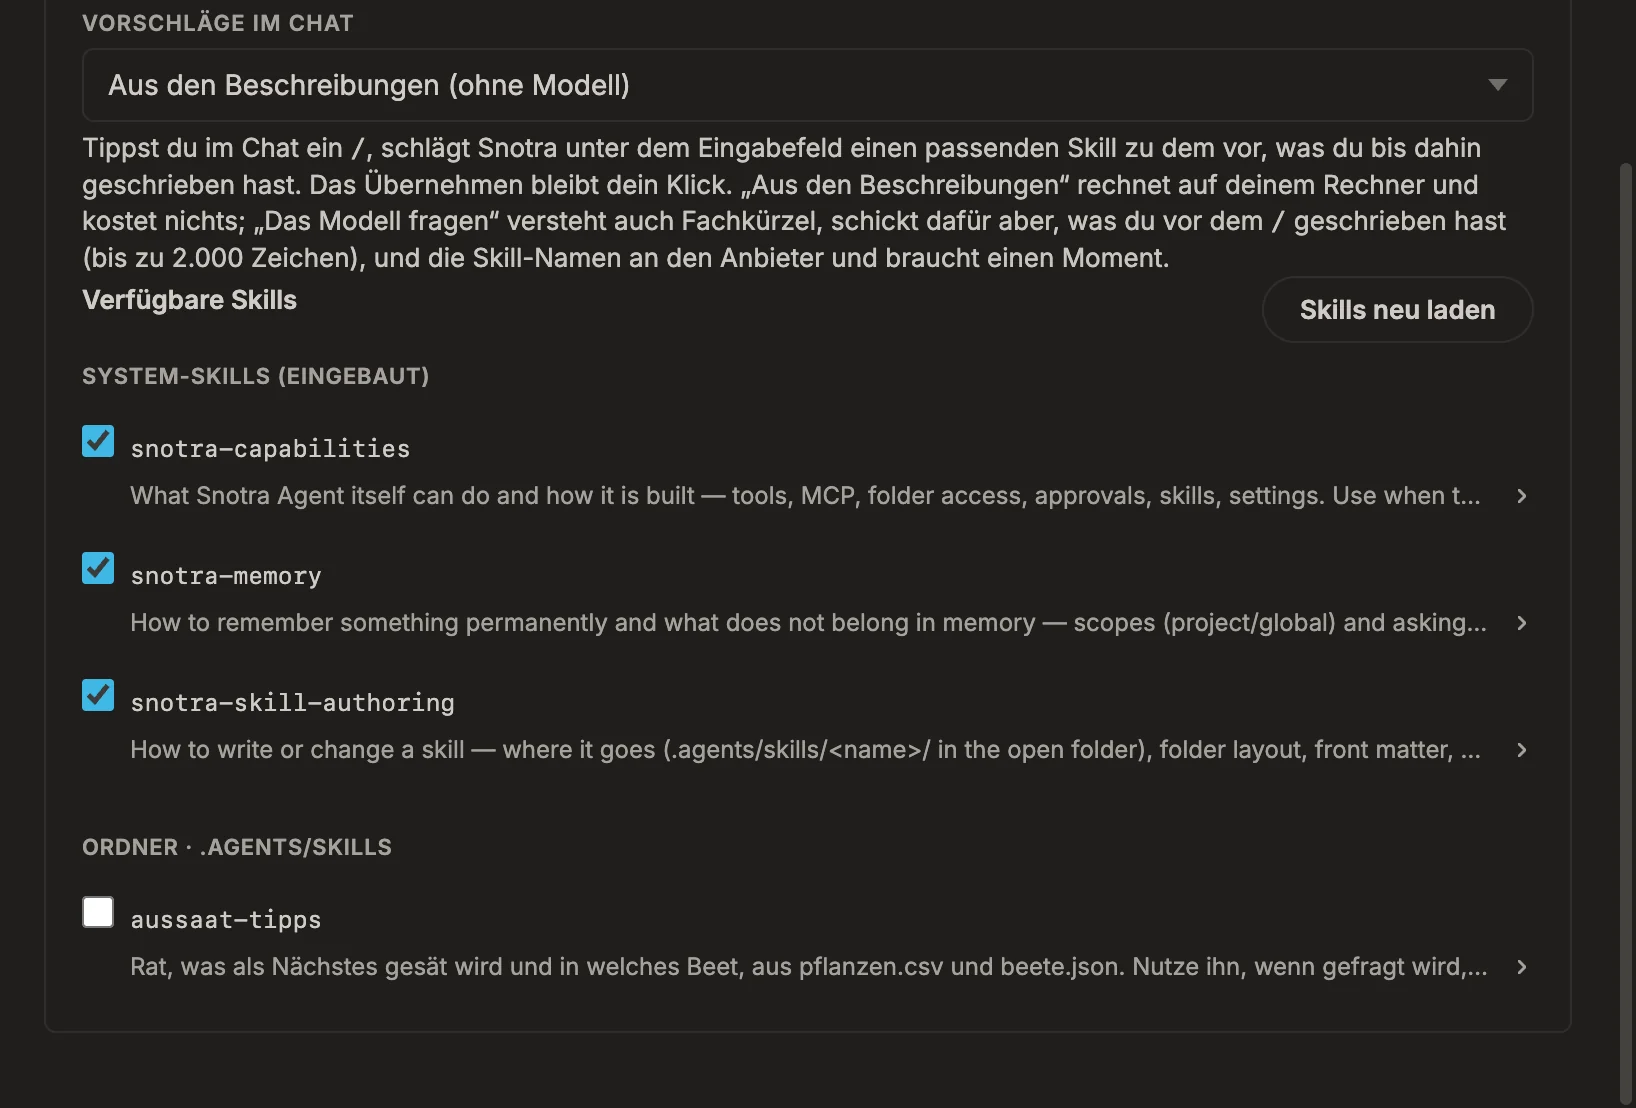
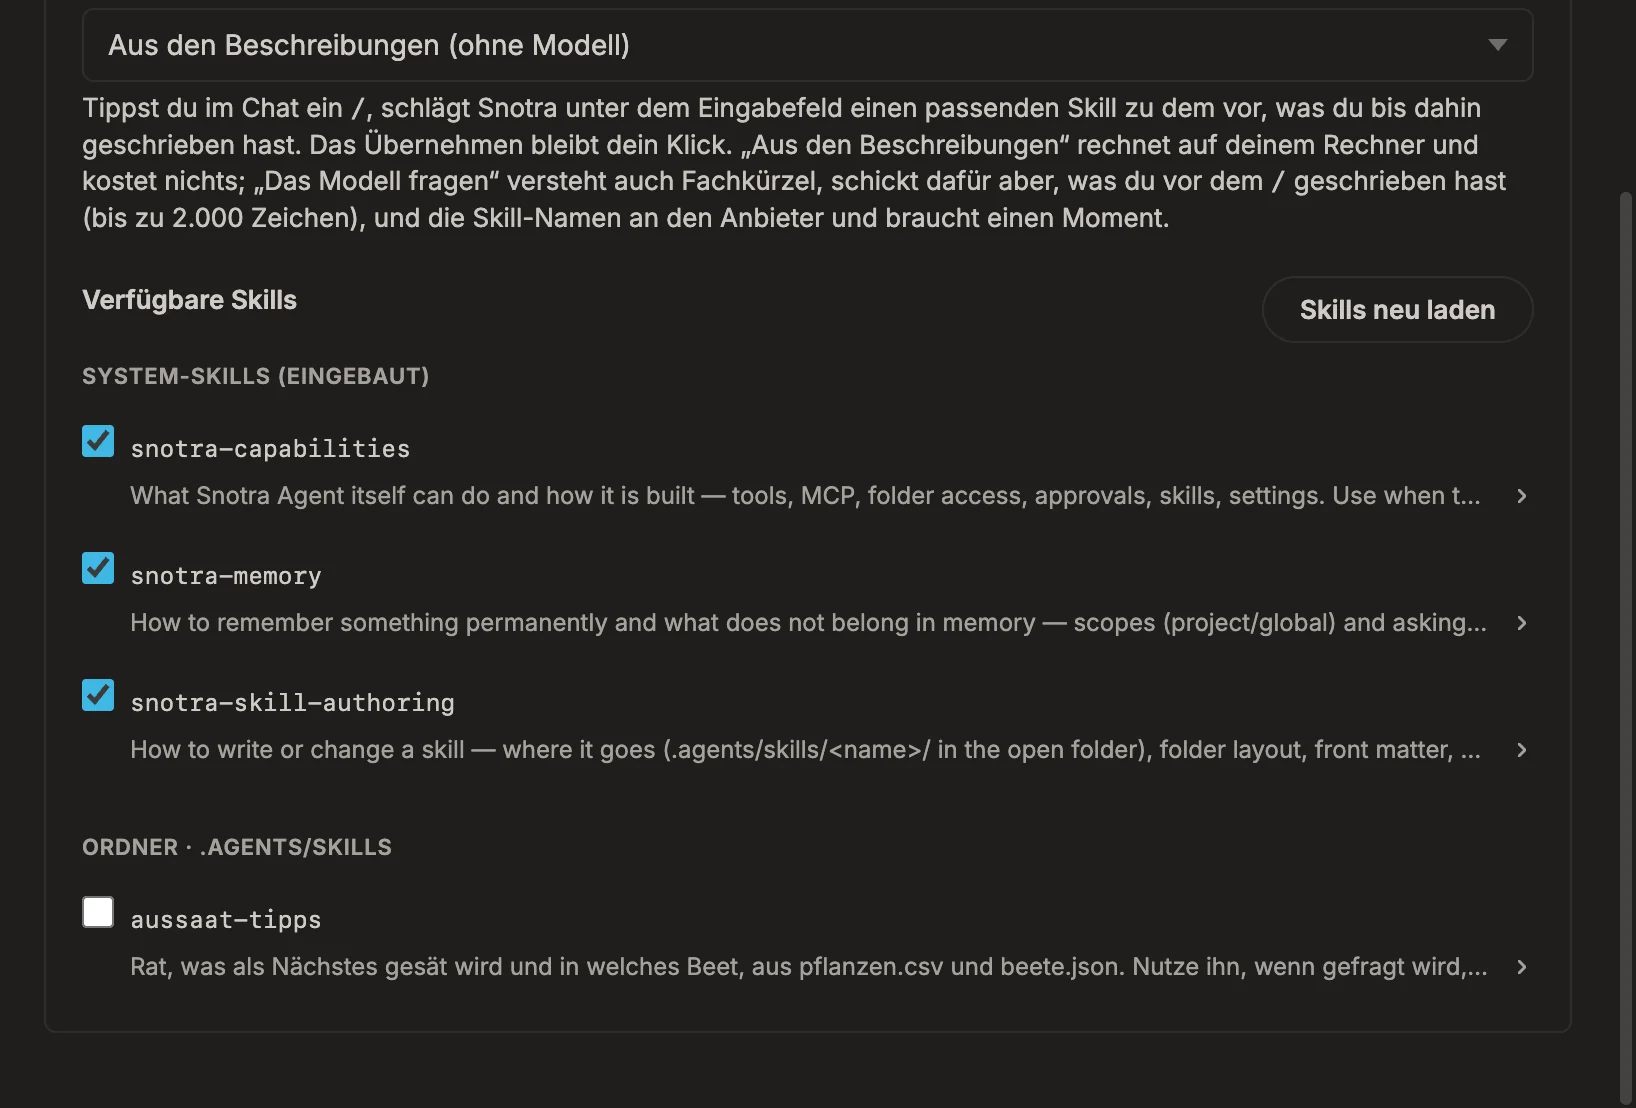
Give the Skills catalog heading room above it (#817) (#832)
Inside the Skills card the heading "Available skills" followed the
suggestion hint without any margin and read as its last line. A heading
that opens a second block in a card now gets a group's distance.
The skills-settings manual screenshots are regenerated.

Changed region(s): [[0.0312, 0.0, 0.9352, 0.2455], [0.9664, 0.1534, 0.9976, 0.1841]]

diff --git a/src/renderer/styles.css b/src/renderer/styles.css
@@ -5063,6 +5063,13 @@ select.modal-input {
   margin-bottom: 4px;
 }
 
+/* A heading that starts a second block inside a card (Settings › Skills: the
+   catalog below the suggestion mode) needs a group's distance from the hint
+   above it; otherwise it reads as that hint's last line (#817). */
+.settings-tools-card > :not(.settings-panel-models__head) + .settings-panel-models__head {
+  margin-top: 20px;
+}
+
 /* The card's own padding is the bottom edge — a trailing note's margin
    would double it. */
 .settings-tools-card > :last-child {
